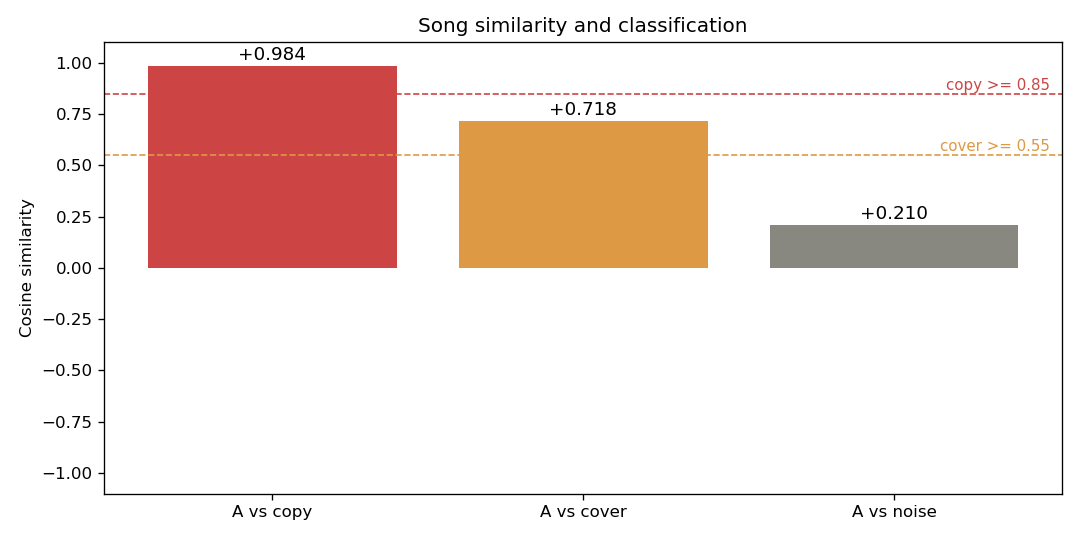
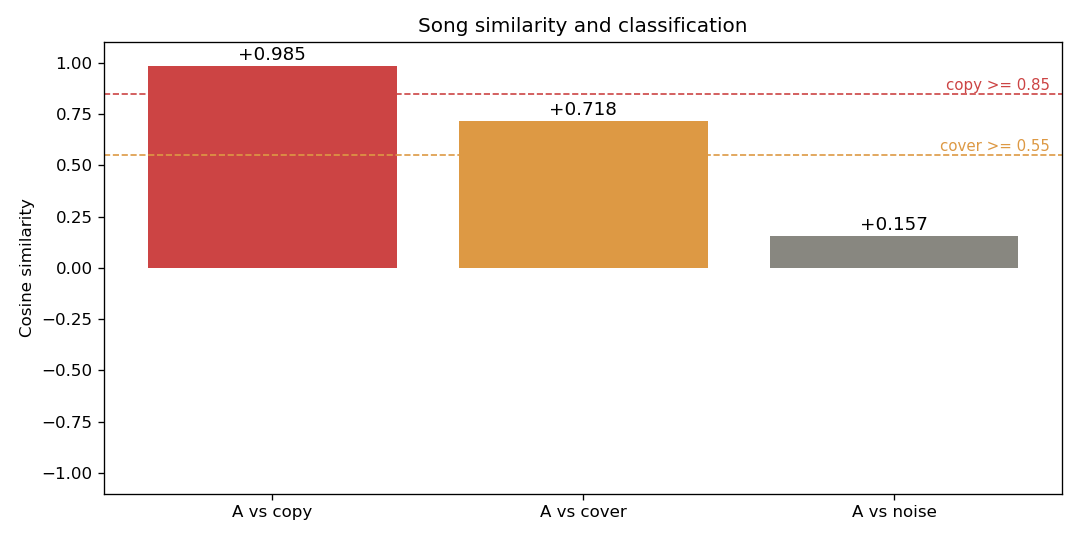
docs: 增加自述 + MIT LICENSE + README 演示图，提升作品集可复用性

Changed region(s): [[0.7028, 0.3852, 0.9472, 0.4444], [0.275, 0.0889, 0.3056, 0.1185]]

diff --git a/main.py b/main.py
@@ -56,7 +56,7 @@ def plot_bars(labels, vals, out_path):
     plt.axhline(TH_COVER, color="#dd9944", ls="--", lw=1)
     plt.text(len(vals) - 0.5, TH_COPY + 0.02, "copy >= 0.85",
              color="#cc4444", fontsize=9, ha="right")
-    plt.text(len(vals) - 0.5, TH_COVER + 0.02, "cover >= 0.55",
+    plt.text(len(vals) - 0.5, TH_COVER + 0.02, f"cover >= {TH_COVER:.2f}",
              color="#dd9944", fontsize=9, ha="right")
     plt.ylim(-1.1, 1.1)
     plt.ylabel("Cosine similarity")

diff --git a/README.md b/README.md
@@ -7,18 +7,24 @@
 
 ## 一、项目简介
 
-给计算机两首音频文件，它会：
+这个项目用来判断一首歌与原曲的关系，分为搬运、翻唱与不相关，也可以用于盗版检测。
+做法是把一首歌的声波等信息转化为可量化的 24 位数字，再与原曲的 24 位数字用余弦相似度比较，越接近 1 代表越相似。
 
-1. 读取音频并提取"音乐指纹"（MFCC 音色特征 + Chroma 音高特征）；
-2. 把每首歌压成一个固定长度的指纹向量；
-3. 用**余弦相似度**比较两首歌的指纹；
-4. 按阈值自动分类：
+分类阈值：
 
 | 相似度 | 判定 | 含义 |
 |---|---|---|
 | ≥ 0.85 | 搬运 (copy) | 几乎一模一样 |
 | 0.55 ~ 0.85 | 翻唱 (cover) | 同一首歌的不同演绎 |
 | < 0.55 | 不相关 (unrelated) | 完全不同的歌 |
+
+---
+
+## 演示效果
+
+![三类分类结果](result.png)
+
+> 演示模式（`python main.py`）自动生成「搬运 / 翻唱 / 不相关」三个样本，并画出相似度柱状图与两条阈值线。
 
 ---
 
